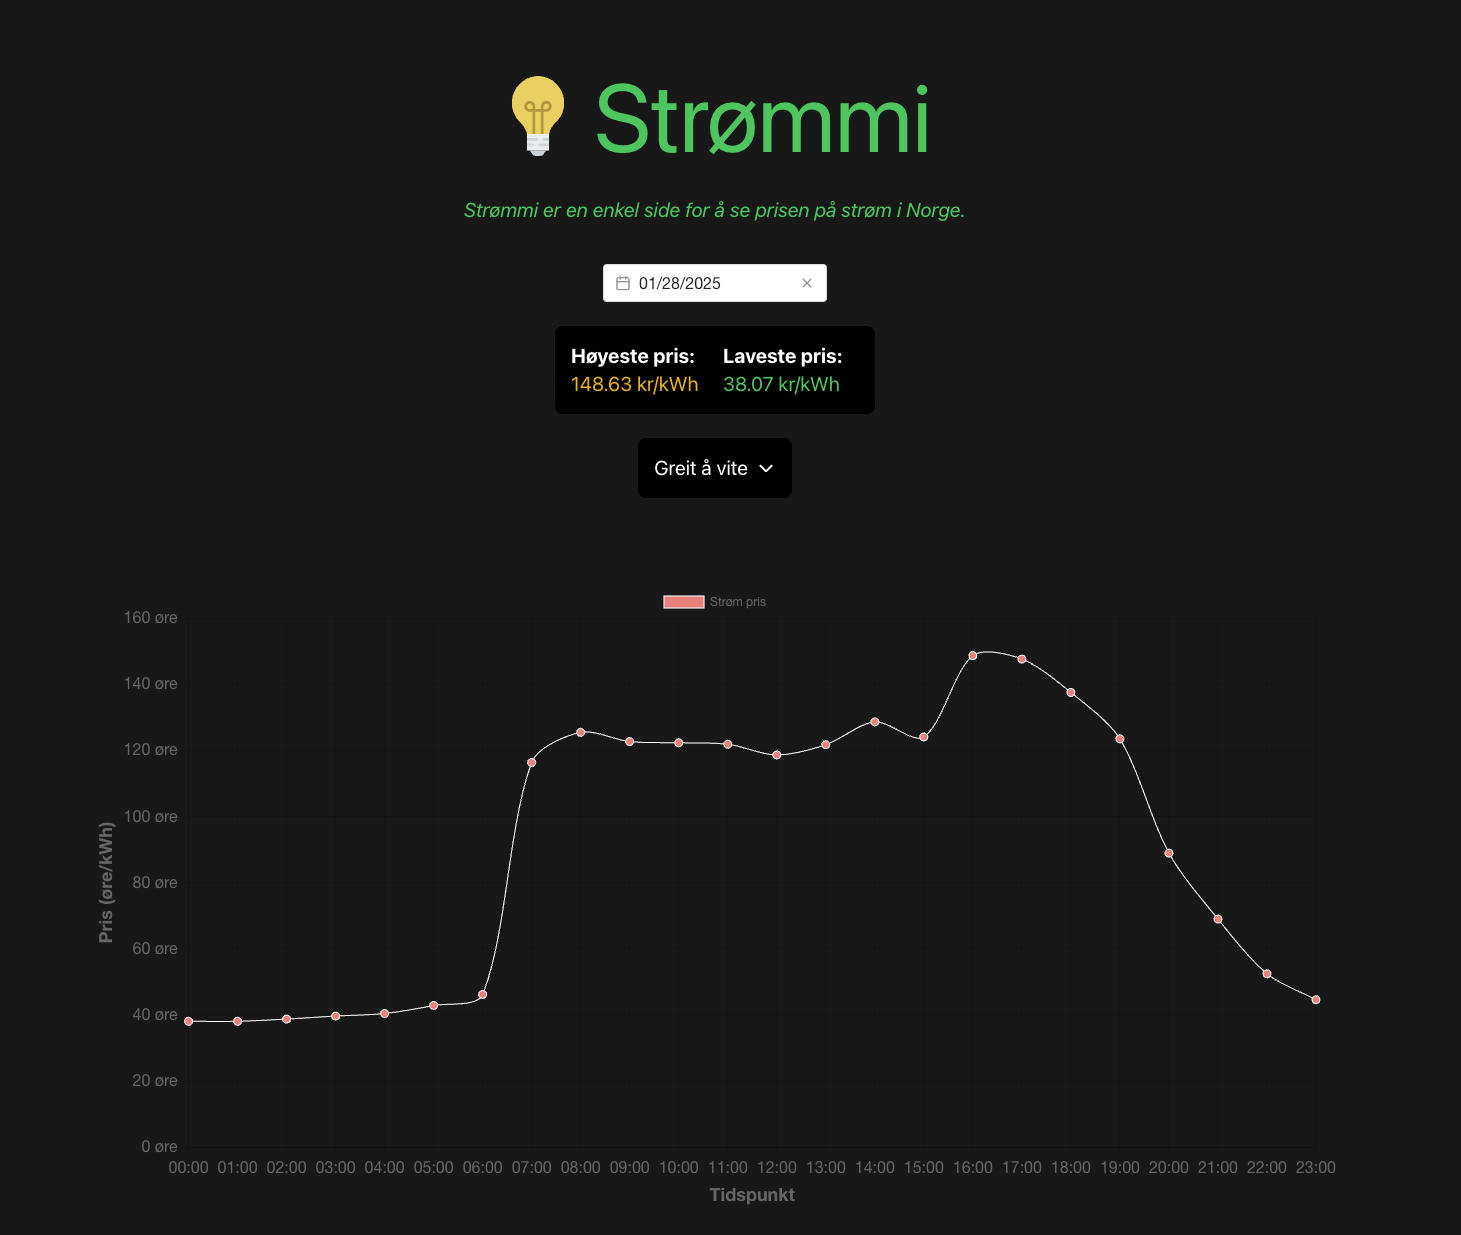
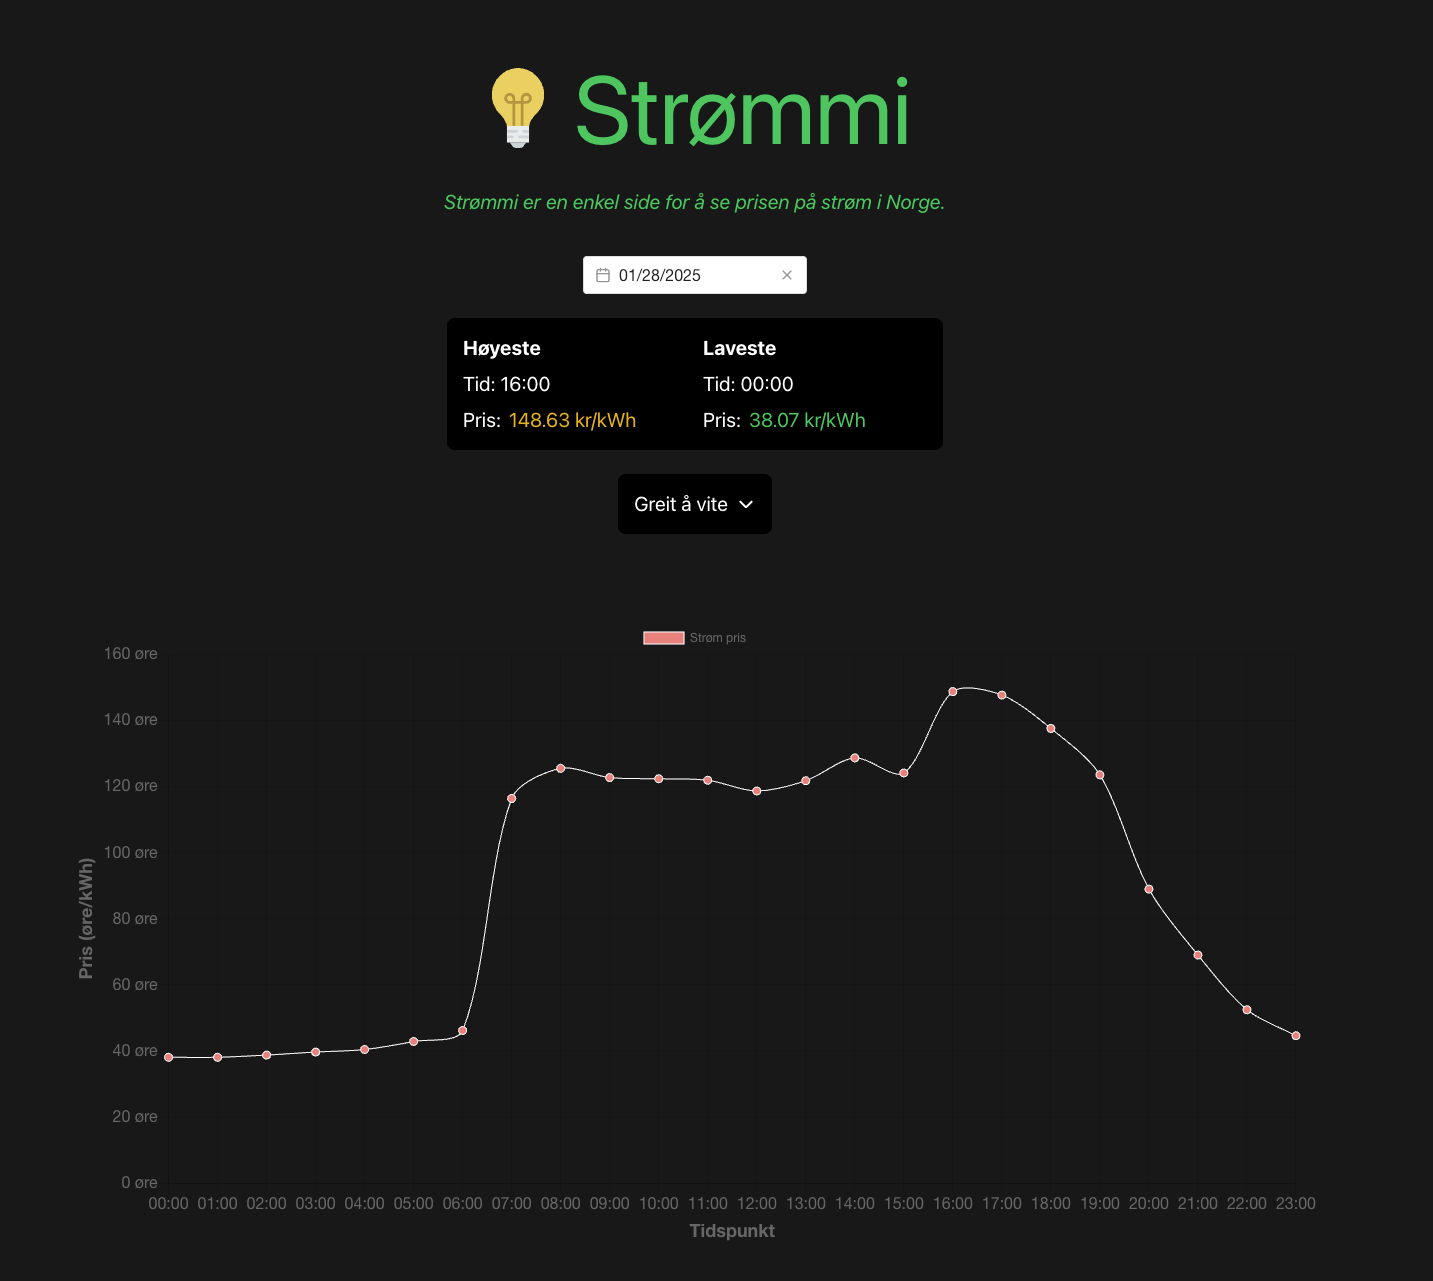
feat: Add time to highest and lowest points

diff --git a/src/components/DataInfoCard.vue b/src/components/DataInfoCard.vue
@@ -1,29 +1,9 @@
 <template>
   <div
-    class="grid grid-cols-2 w-full sm:w-[20rem] gap-4 !mt-4 sm:!mt-6 bg-black p-4 rounded-lg"
+    class="grid grid-cols-2 gap-4 !mt-4 sm:!mt-6 bg-black p-4 rounded-lg max-w-[34rem]"
   >
-    <p class="text-white text-xl md:text-xl">
-      <span class="!font-bold">Høyeste pris: </span>
-      <span
-        :class="{
-          'text-green-500': highestPrice < 100,
-          'text-yellow-500': highestPrice > 100,
-          'text-red-500': highestPrice > 300,
-        }"
-        >{{ highestPrice.toFixed(2) }} kr/kWh</span
-      >
-    </p>
-    <p class="text-white text-xl md:text-xl">
-      <span class="!font-bold">Laveste pris: </span>
-      <span
-        :class="{
-          'text-green-500': lowestPrice < 100,
-          'text-yellow-500': lowestPrice > 100,
-          'text-red-500': lowestPrice > 300,
-        }"
-        >{{ lowestPrice.toFixed(2) }} kr/kWh</span
-      >
-    </p>
+      <PriceCard :price="highestPrice" title="Høyeste" />
+      <PriceCard :price="lowestPrice" title="Laveste" />
   </div>
 
   <div
@@ -90,9 +70,10 @@
 
 <script setup lang="ts">
 import { ref } from "vue";
+import PriceCard from "@/components/PriceCard.vue";
 defineProps<{
-  highestPrice: number;
-  lowestPrice: number;
+  highestPrice: { time: Date; value: number };
+  lowestPrice: { time: Date; value: number };
 }>();
 
 const isOpen = ref(false);

diff --git a/src/components/ChartContainer.vue b/src/components/ChartContainer.vue
@@ -46,12 +46,24 @@ watch(
 const { data, isLoading, error } = query;
 
 const highestPrice = computed(() => {
-  if (!data.value) return 0;
-  return Math.max(...data.value.map((price) => price.NOK_per_kWh * 100));
+  if (!data.value) return { time: new Date(), value: 0 };
+  const prices = data.value.map((price) => ({
+    time: new Date(price.time_start),
+    value: price.NOK_per_kWh * 100
+  }));
+  return prices.reduce((max, current) => 
+    current.value > max.value ? current : max
+  , prices[0]);
 });
 
 const lowestPrice = computed(() => {
-  if (!data.value) return 0;
-  return Math.min(...data.value.map((price) => price.NOK_per_kWh * 100));
+  if (!data.value) return { time: new Date(), value: 0 };
+  const prices = data.value.map((price) => ({
+    time: new Date(price.time_start),
+    value: price.NOK_per_kWh * 100
+  }));
+  return prices.reduce((min, current) => 
+    current.value < min.value ? current : min
+  , prices[0]);
 });
 </script>

diff --git a/src/components/PriceCard.vue b/src/components/PriceCard.vue
@@ -1,0 +1,27 @@
+<template>
+    <div class="text-white text-xl md:text-xl flex flex-col gap-2 w-full sm:min-w-[14rem]">
+      <span class="!font-bold">{{ title }}</span>
+
+      <span>Tid: {{ formatDateHours(price.time) }}</span>
+
+      <div class="flex flex-row gap-2">
+        <p>Pris:</p>
+      <span
+        :class="{
+          'text-green-500': price.value < 100,
+          'text-yellow-500': price.value > 100,
+          'text-red-500': price.value > 300,
+        }"
+          >{{ price.value.toFixed(2) }} kr/kWh</span
+        >
+      </div>
+    </div>
+</template>
+
+<script setup lang="ts">
+import { formatDateHours } from "@/utils/date";
+defineProps<{
+  price: { time: Date; value: number };
+  title: string;
+}>();
+</script>

diff --git a/src/views/HomeView.vue b/src/views/HomeView.vue
@@ -15,14 +15,14 @@ if (now.getHours() >= 13) {
 
 <template>
   <main
-    class="w-full flex-1 h-full max-w-[100rem] mx-auto flex items-center flex-col"
+    class="w-full flex-1 max-w-[100rem] mx-auto flex items-center flex-col"
   >
     <p
       class="font-medium text-green-500 text-xl md:text-xl self-center italic !mt-8 text-center"
     >
       Strømmi er en enkel side for å se prisen på strøm i Norge.
     </p>
-    <div class="flex flex-col w-full h-full !mt-10 items-center">
+    <div class="flex flex-col w-full !mt-10 items-center">
       <Datepicker
         v-model="date"
         :enable-time-picker="false"
